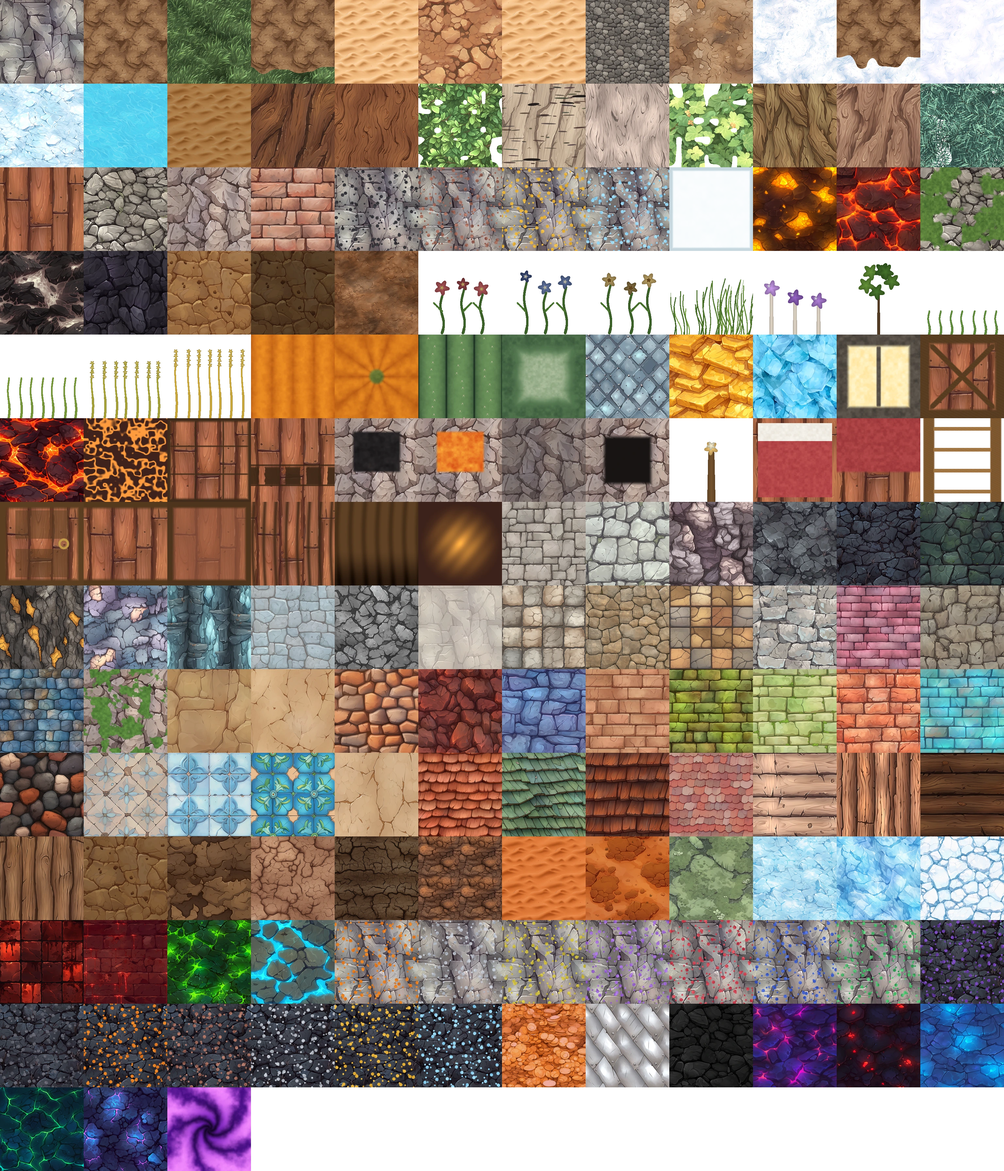
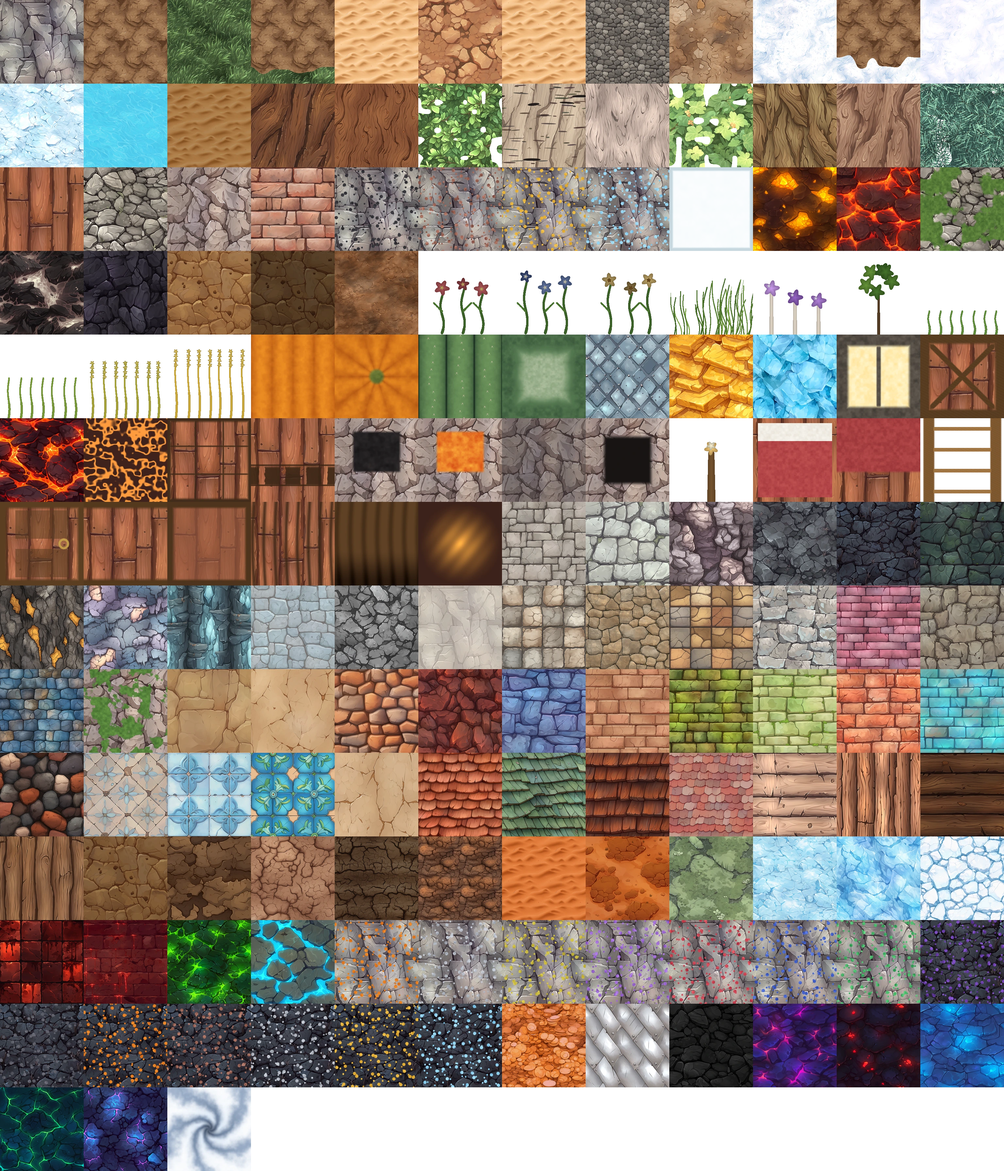
Make the divider frosted white glass instead of violet.
"instead of purple can we make the portals maybe white and more transparent".

The colour is four places and they all had to move together or the divider is a
different thing depending on how far away you stand: the procedural field in
VoxelMaterial that the sheet is actually painted with, the atlas tile the block
carries as its identity, the block light it floods the ground either side with,
and the far-view curtain in Dividers.js. Cold rather than neutral in all four -
dead white on a surface this size reads as cloud or as concrete.

The albedo is much darker than white looks like it should be, and that is not
timidity. The block is light 15 and the irradiance lands near 1.3, so the first
pass at this palette photographed as one blown-out sheet with the swirl gone out
of it. The contrast is in the albedo and the brightness comes from the light.

More transparent is the half that fights an earlier ask, "we shouldn't be able
to see other face from inside pyre". Frosted rather than clear: alpha 0.88
head-on and sealed at a grazing angle, so an eighth of the far side comes
through under a near-white body. Photographed from inside Rime against the same
wall at 1.0, a patch of it moves by fourteen levels of 255 and gains some
texture - light and shadow behind glass, with nothing in it you could name. The
block stays opaque in the table, so the mesher, the light solver and everything
in flight go on treating a divider as a wall.
[…]

Changed region(s): [[0.1562, 0.9062, 0.25, 1.0]]

diff --git a/src/render/VoxelMaterial.js b/src/render/VoxelMaterial.js
@@ -1612,7 +1612,7 @@ const LIQUID_MAP_FRAG = /* glsl */`
   // stage over, so the test now names the id it means.
   if (vWave > 5.5) {
     /*
-     * The divider, drawn as one sheet of violet glass.
+     * The divider, drawn as one sheet of frosted white glass.
      *
      * ---- why there is no texture fetch in here -----------------------------
      *
@@ -1691,30 +1691,42 @@ const LIQUID_MAP_FRAG = /* glsl */`
               * caustic((q.yx - warp) * 0.31 + 11.0, pT * 0.28);
 
     /*
-     * Dark, and darker than it looks like it should be. The block is light 15
-     * in violet, so vBlock is 1.0 on every fragment of it and LIGHTS_END
-     * multiplies the albedo by an irradiance of about 1.3 before the fresnel
-     * adds more on top - a mid-bright albedo saturates and the wall photographs
-     * as one flat magenta. Measured on the first pass: 186/75/224 across a patch
-     * that should have had the whole range in it. The albedo carries the
-     * contrast and the light provides the brightness.
+     * WHITE, and this is the owner's ask: "instead of purple can we make the
+     * portals maybe white and more transparent". Three cold greys running from
+     * near-black to white, where three violets used to run from near-black to
+     * lilac. Nothing else about the field changed - the bands, the filaments and
+     * the drift are the same shape they were, and it is only what they are
+     * painted in that is different.
+     *
+     * Still darker than it looks like it should be, and for the same reason it
+     * always was. The block is light 15, so vBlock is 1.0 on every fragment of
+     * it and LIGHTS_END multiplies the albedo by an irradiance of about 1.3
+     * before the fresnel adds more on top: an albedo already near white
+     * saturates, and a saturated wall is one flat sheet with the swirl gone out
+     * of it. The albedo carries the contrast and the light provides the
+     * brightness, so DEEP has to stay genuinely dark for the structure to
+     * survive - it is the shadow inside the glass.
+     *
+     * Cold rather than neutral, in the same eighth the tile is. Dead grey on a
+     * surface this size reads as concrete.
      */
-    const vec3 PORTAL_DEEP = vec3(0.022, 0.003, 0.062);
-    const vec3 PORTAL_LIT  = vec3(0.26, 0.055, 0.42);
-    const vec3 PORTAL_HOT  = vec3(0.72, 0.30, 0.95);
+    const vec3 PORTAL_DEEP = vec3(0.030, 0.040, 0.055);
+    const vec3 PORTAL_LIT  = vec3(0.20, 0.23, 0.27);
+    const vec3 PORTAL_HOT  = vec3(0.50, 0.54, 0.60);
     diffuseColor.rgb = mix(PORTAL_DEEP, PORTAL_LIT, pStruct);
     // The filaments are added rather than mixed, and only where the bands are
     // already up: light gathering in the thick of the glass rather than a
     // second pattern laid over the first.
     diffuseColor.rgb += PORTAL_HOT * fil * (0.25 + 0.75 * pStruct) * 0.80;
     /*
-     * OPAQUE, and this is a requirement rather than a look: the divider's job
-     * is that you cannot see the sealed face until you have walked into it. The
-     * block is still opaque in the table - so SEALS_FACES, SKY_ATTEN
-     * and the light solver treat it exactly as a stone wall and there is no
-     * geometry behind it to see anyway — and this keeps the drawn fragment
-     * agreeing with that. The fresnel block after <opaque_fragment> holds it at
-     * 1.0 as well; water's line there deliberately does not.
+     * The base alpha stays at 1 and the frosting is applied once, after
+     * <opaque_fragment>, where the fresnel that shapes it is already computed.
+     * See PORTAL_ALPHA there for what "more transparent" was allowed to cost.
+     *
+     * The block is still opaque in the TABLE either way - SEALS_FACES, SKY_ATTEN
+     * and the light solver go on treating it as a stone wall, so a sealed face
+     * is still sealed to the light, to the mesher and to everything in flight.
+     * What changed is only how much of the far side the fragment lets past.
      */
     diffuseColor.a = 1.0;
   } else if (vWave > 2.5) {
@@ -2087,7 +2099,7 @@ const LIQUID_NORMAL_FRAG = /* glsl */`
   }
   if (isPortal) {
     // The same trick the sea uses, on the axes a wall has: a long swell added
-    // as a tangent-space slope, so the fresnel and the violet glint slide
+    // as a tangent-space slope, so the fresnel and the glint slide
     // across the sheet instead of sitting still on it. swellGrad is world-axis
     // aligned, so the axis matching this wall's normal drops out on its own and
     // what is left runs in the plane - see its note. Halved, because a divider
@@ -2697,17 +2709,18 @@ function patch(material, opts = {}) {
           /*
            * The divider's fresnel. The same physics as the water's below it and
            * a different job: water uses it to stop showing you the bed, and a
-           * divider has nothing to show you at all, so here it is the whole of
-           * what makes the sheet read as GLASS rather than as a painted wall.
-           * Head-on you see the violet body; turn along the wall and it goes to
+           * divider is only barely showing you anything, so here it is the whole
+           * of what makes the sheet read as GLASS rather than as a painted wall.
+           * Head-on you see the frosted body; turn along the wall and it goes to
            * sky, which is the one cue that says a surface is smooth and hard.
            *
            * Tinted rather than mirrored. A clean sky reflection on an
            * eighty-eight block wall is a strip of daylight blue across the
-           * middle of the frame and it stops reading as a portal entirely, so
-           * the reflected sky is dragged most of the way to the divider's own
-           * violet and only the LEVEL of it survives - a bright sky gives a
-           * bright rim, a dusk sky a dim one.
+           * middle of the frame, so the reflected sky is dragged most of the way
+           * to the divider's own colour and only the LEVEL of it survives - a
+           * bright sky gives a bright rim, a dusk sky a dim one. That mattered
+           * more when the body was violet and the sky was the wrong hue for it;
+           * on white it is what stops the wall turning blue at noon.
            */
           vec3 vDirP = normalize(vWorld - uCamPos);
           float cosP = clamp(dot(-vDirP, normal), 0.0, 1.0);
@@ -2715,7 +2728,7 @@ function patch(material, opts = {}) {
           vec3 rDirP = reflect(vDirP, normal);
           vec3 skyP = mix(uSkyHorizon, uSkyZenith,
                           pow(clamp(dot(rDirP, UP), 0.0, 1.0), 0.42));
-          const vec3 PORTAL_SHEEN = vec3(0.86, 0.52, 1.00);
+          const vec3 PORTAL_SHEEN = vec3(0.88, 0.94, 1.00);
           float skyLum = dot(skyP, AERIAL_LUMA);
           gl_FragColor.rgb = mix(gl_FragColor.rgb,
                                  PORTAL_SHEEN * clamp(0.35 + skyLum * 1.6, 0.2, 1.5),
@@ -2729,11 +2742,35 @@ function patch(material, opts = {}) {
           float ndhP = clamp(dot(normal, halfP), 0.0, 1.0);
           gl_FragColor.rgb += PORTAL_SHEEN * fresP * pow(ndhP, 60.0) * 0.5;
 
-          // Never see through the divider. Water's line at the bottom of the
-          // block below raises alpha with the fresnel; this one holds it at the
-          // top, because the requirement is not "hard to see through", it is
-          // "sealed".
-          gl_FragColor.a = 1.0;
+          /*
+           * FROSTED, not clear, and the number is a compromise between two
+           * things the owner has asked for at different times.
+           *
+           * "we shouldn't be able to see other face from inside pyre" is why
+           * this line used to read "a = 1.0". "instead of purple can we make the
+           * portals maybe white and more transparent" is why it no longer does.
+           * A sheet of real frosted glass answers both at once because it
+           * SCATTERS: light and gross shape come through, detail does not, and
+           * you cannot tell what is on the other side.
+           *
+           * There is no cheap way to blur what is behind a forward-rendered
+           * surface, so the scattering is faked with the one control there is -
+           * how little of the far side is let through at all. At 0.88 the world
+           * beyond contributes an eighth, under a body that is near-white and
+           * lit to 15. Photographed from inside Rime against the same wall at
+           * 1.0, a 650x310 patch of it goes from a mean of 189 to 175 and its
+           * standard deviation from 15.3 to 19.1: the far side is worth about
+           * fourteen levels of 255 and some texture. It reads as light and
+           * shadow behind glass, and nothing in it is legible - the face 2
+           * hillside three columns behind that patch cannot be found in the
+           * photograph.
+           *
+           * The fresnel takes it the rest of the way to sealed as you turn
+           * along the wall, which is both what glass does and the angle at
+           * which the thinnest slice of world would otherwise show the most.
+           */
+          const float PORTAL_ALPHA = 0.88;
+          gl_FragColor.a = mix(PORTAL_ALPHA, 1.0, fresP);
         } else if (vWave < 2.5) {
           // What makes water read as water, at distance, is not its own colour
           // — it is that you stop seeing through it and start seeing the sky in

diff --git a/src/render/TextureGen.js b/src/render/TextureGen.js
@@ -817,8 +817,10 @@ G.snow = (s) => {
  * The divider around a sealed face, which is the portal itself. See
  * NINE-FACES.md.
  *
- * The owner's reference is a Rick and Morty portal in purple, and the one thing
- * that has to survive is the **swirl**: a logarithmic spiral wound about the
+ * White, not purple: "instead of purple can we make the portals maybe white and
+ * more transparent". What that changes here is the palette and nothing else -
+ * the one thing that has to survive is still the **swirl**: a logarithmic
+ * spiral wound about the
  * middle of the tile, not a surface with a pattern on it. Everything else in
  * this atlas is trying to look like something you could mine; this is trying to
  * look like a hole in the world that shows you nothing but itself.
@@ -833,20 +835,23 @@ G.snow = (s) => {
  *  - **Warped, twice.** A clean spiral is a logo. Two fbm fields at different
  *    scales are added into the spiral's phase, so the arms wobble and fray and
  *    the thing reads as turbulent rather than printed.
- *  - **Dark eye, hot rim.** Brightness ramps outward, so the middle is a deep
- *    violet and the outside is near-blown-out lilac. That is the reference's
- *    strongest cue after the swirl, and it is also what makes a wall of these
+ *  - **Grey eye, white rim.** Brightness ramps outward, so the middle is a
+ *    cold grey and the outside is white. That is what makes a wall of these
  *    legible: the cell boundaries are the bright part, so a run of them reads
- *    as a grid of eyes rather than as one lilac sheet.
+ *    as a grid of eyes rather than as one white sheet - and it is the reason
+ *    the eye did not go white with the rest of it. A tile with no dark end is
+ *    a blank pane, and eighty-eight layers of blank pane is a fog bank.
  *  - **The rim lift rides the arms**, deliberately. Lifting every pixel at the
  *    edge would blow the shape out exactly where it is doing the most work.
  *
- * Measured over the finished 128x128 tile: rgb min 17/3/35, max 243/138/253,
- * mean 145/63/186, and luma at the 5th/50th/95th percentiles 27.2 / 85.5 /
- * 161.0. Both ends of that matter. The mean sits far clear of the floor a
- * near-black tile has to worry about, where the fog bands it, and the spread from 27 to 161 is what
- * says the tile still has a shape in it rather than having flattened into one
- * bright lilac wash.
+ * Kept COLD rather than neutral, about an eighth more blue than red. Dead white
+ * on a surface this large picks up whatever the sky is doing and reads as
+ * cloud; the cast is what keeps it reading as glass. Measured over the finished
+ * 128x128 tile: rgb mean 197/208/222, luma at the 5th/50th/95th percentiles
+ * 148 / 214 / 250. The spread is what says the tile still has a shape in it
+ * rather than having flattened into one white wash, and the first pass at this
+ * palette did flatten - p5 came out at 169 and the swirl was gone from three
+ * blocks away.
  */
 const PORTAL_ARMS = 5;
 const PORTAL_TWIST = 5.2;
@@ -869,14 +874,14 @@ G.portal = (s) => {
     const out = smoothstep(0.04, 0.50, r);
     const eye = smoothstep(0.13, 0.02, r);          // the pupil, darkest of all
 
-    const core = mixc(px([28, 4, 58]), px([96, 22, 168]), arm);
-    const mid = mixc(px([70, 14, 132]), px([188, 46, 250]), arm);
+    const core = mixc(px([104, 124, 152]), px([214, 228, 244]), arm);
+    const mid = mixc(px([150, 170, 196]), px([240, 247, 255]), arm);
     let c = mixc(core, mid, out);
     // Hot rim, and only along the arms - see the note above.
-    c = mixc(c, px([255, 156, 255]), out * arm * 0.86);
-    c = mixc(c, px([12, 2, 26]), eye * 0.85);
+    c = mixc(c, px([255, 255, 255]), out * arm * 0.86);
+    c = mixc(c, px([62, 76, 98]), eye * 0.85);
     // A little grain so the gradients do not band on an 8-bit atlas.
-    c = mixc(c, px([146, 60, 210]), (grit[i] - 0.5) * 0.10 + 0.05);
+    c = mixc(c, px([198, 212, 232]), (grit[i] - 0.5) * 0.10 + 0.05);
     setRGB(s, i, c);
     s.a[i] = 1;
     // Barely any relief. The arms are light, not rock, so the normal map is

diff --git a/src/render/Dividers.js b/src/render/Dividers.js
@@ -54,7 +54,7 @@ export const FADE_FAR = 280;
  * How loud the curtain is, and how much of that it keeps in daylight.
  *
  * BRIGHTNESS was 1.15, which put the sheet at very nearly its own full colour
- * wherever it was drawn - a saturated violet wall standing over the whole
+ * wherever it was drawn - a saturated wall standing over the whole
  * horizon and, once UnrealBloom had it, washing out the frame it was drawn
  * over. The effect's job is to say "a boundary is that way", and that is a line
  * on the horizon rather than a light source.
@@ -80,8 +80,11 @@ const VERT = /* glsl */`
 `;
 
 /**
- * The look: a violet line lying along the skyline, thinning out a little way
+ * The look: a pale line lying along the skyline, thinning out a little way
  * above it, and thinning again with every unit of air or water in front of it.
+ *
+ * White, because the portal blocks it stands in for are white: a divider that
+ * was white up close and violet on the horizon would be two different things.
  *
  * It is deliberately NOT a picture of the swirl. The tile's spiral is a thing
  * you read at arm's length; at four hundred units a run of them is under a
@@ -196,7 +199,16 @@ const FRAG = /* glsl */`
     // dark and has no minimap, uNight leaves it at full strength.
     float lit = mix(DAY_GAIN, 1.0, uNight);
 
-    vec3 col = mix(vec3(0.52, 0.04, 0.98), vec3(0.92, 0.26, 1.0), up * 0.6 + 0.2);
+    // White, with the divider itself. WHITE_TRIM is not taste: white is 2.6
+    // times the luminance the violet was at the same numbers, so dropping the
+    // hue and nothing else would have put a curtain back over the horizon three
+    // times as loud as the one that was just tuned down to be subtle. It is the
+    // ratio of the two lumas, so what leaves this shader is as bright as it was
+    // yesterday and only its colour has changed.
+    const vec3 COL_LOW = vec3(0.72, 0.82, 1.00);
+    const vec3 COL_HIGH = vec3(0.95, 0.98, 1.00);
+    const float WHITE_TRIM = 0.38;
+    vec3 col = mix(COL_LOW, COL_HIGH, up * 0.6 + 0.2) * WHITE_TRIM;
     gl_FragColor = vec4(col * body * streak * near * atten * lit * BRIGHTNESS, 1.0);
   }
 `;

diff --git a/src/world/Blocks.js b/src/world/Blocks.js
@@ -206,7 +206,7 @@ export const TILES = [
 
   // --- the world's edge -----------------------------------------------------
   // The divider that seals the four corner faces, and it is the portal itself.
-  // A violet swirl rather than any kind of rock: the whole point is that it does
+  // A white swirl rather than any kind of rock: the whole point is that it does
   // not read as a material you could build with or mine, it reads as a way
   // through that shows you nothing but itself. `TextureGen.js` owns the look.
   'portal',
@@ -1515,8 +1515,9 @@ export const BLOCKS = [
    *
    * ### Lit
    *
-   * Full block light in violet. Eight boundaries on a 1248-wide map is a lot of
-   * world to find your way around, and a divider that only shows up inside the
+   * Full block light, in a cold white rather than the violet it was: see the
+   * palette note over `G.portal`. Eight boundaries on a 1248-wide map is a lot
+   * of world to find your way around, and a divider that only shows up inside the
    * draw distance is no use as a landmark. At 15 it lights its own column, the
    * ground either side of it and anything standing near it, and it reads at
    * night from as far as the terrain lets you see.
@@ -1531,8 +1532,8 @@ export const BLOCKS = [
   block({
     name: 'portal', label: 'Portal', all: 'portal',
     solid: false, opaque: true,
-    light: 15, lightColor: [0.78, 0.36, 1.0],
-    hardness: -1, drop: null, particle: [0.72, 0.34, 0.98], sound: 'glass',
+    light: 15, lightColor: [0.86, 0.92, 1.0],
+    hardness: -1, drop: null, particle: [0.88, 0.93, 1.0], sound: 'glass',
   }),
 ];
 
